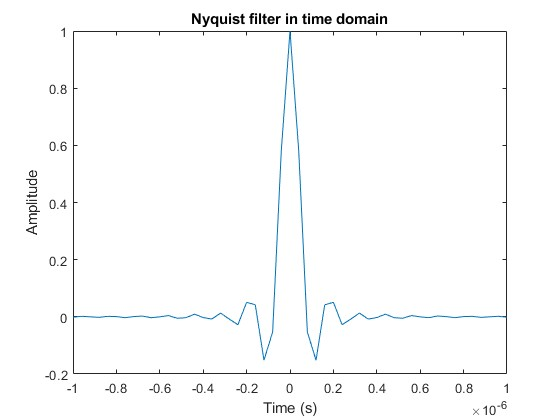
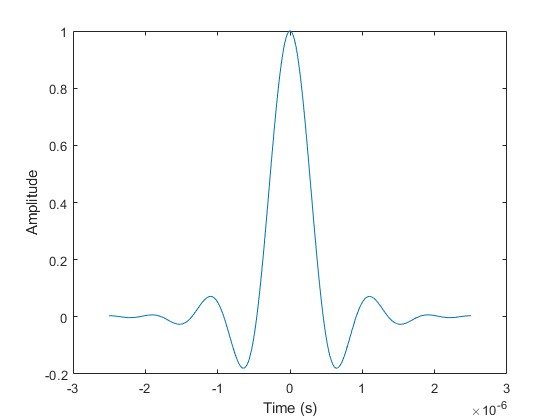
added soft decoding, hard decoding and impulse response figures

diff --git a/PART 2/plots.m b/PART 2/plots.m
@@ -67,14 +67,7 @@ BER_HD_5_iterations = [0.283936718750000
 0
 0];
 
-BER_SD_15_iterations = [0.343340000000000
-0.225310000000000
-0.109590000000000
-0.0301700000000000
-0.00838000000000000
-0.00151000000000000
-0.000370000000000000
-0.000150000000000000];
+BER_SD_15_iterations = [];
 
 BER_HD_1_iteration = [0.283291406250000
 0.214907812500000
@@ -183,32 +176,42 @@ BER_SD_18_iterations = [0.457275781250000
 0
 0];
 
-BER_SD_21_iterations = [];
+BER_SD_21_iterations = [0.458060156250000
+0.456740625000000
+0.454264843750000
+0.305492968750000
+0.0306234375000000
+0.000937500000000000
+4.68750000000000e-06
+0
+0
+0
+0];
 
-BER_pam1_new = [0.213024166666667
-0.157970500000000
-0.103757166666667
-0.0562288333333333
-0.0228336666666667
-0.00592966666666667
-0.000776833333333333
-3.58333333333333e-05
-1.66666666666667e-07
+BER_pam1_new = [0.213264500000000
+0.158431900000000
+0.103771000000000
+0.0563562000000000
+0.0228921000000000
+0.00598820000000000
+0.000784100000000000
+3.40000000000000e-05
+5.00000000000000e-07
 0
 0];
 
 figure
 hold on
-plot(0:5, BER_pam1_new(1:6))
+plot(-5:2:15, BER_pam1_new(1:11))
 % plot(0:10, BER_qam2(1:11))
 % plot(0:10, BER_qam4(1:11))
 % plot(0:10, BER_qam6(1:11))
 %plot(0:5, BER_SD_15_iterations(1:6))
-plot(0:10, BER_HD_1_iteration(1:11))
-plot(0:10, BER_HD_2_iterations(1:11))
-plot(0:10, BER_HD_5_iterations(1:11))
-plot(0:10, BER_HD_7_iterations(1:11))
-plot(0:10, BER_HD_9_iterations(1:11))
+plot(-5:2:15, BER_HD_1_iteration(1:11))
+plot(-5:2:15, BER_HD_2_iterations(1:11))
+plot(-5:2:15, BER_HD_5_iterations(1:11))
+plot(-5:2:15, BER_HD_7_iterations(1:11))
+plot(-5:2:15, BER_HD_9_iterations(1:11))
 set(gca, 'YScale', 'log')
 xlabel('Eb/N0')
 ylabel("BER")
@@ -218,18 +221,18 @@ title('Hard Decoding of pam')
 
 figure
 hold on
-plot(0:5, BER_pam1_new(1:6))
+plot(-5:2:15, BER_pam1_new(1:11))
 % plot(0:10, BER_qam2(1:11))
 % plot(0:10, BER_qam4(1:11))
 % plot(0:10, BER_qam6(1:11))
 %plot(0:5, BER_SD_15_iterations(1:6))
-plot(0:10, BER_SD_1_iteration(1:11))
-plot(0:10, BER_SD_3_iterations(1:11))
-plot(0:10, BER_SD_7_iterations(1:11))
-plot(0:10, BER_SD_11_iterations(1:11))
+plot(-5:2:15, BER_SD_1_iteration(1:11))
+plot(-5:2:15, BER_SD_3_iterations(1:11))
+plot(-5:2:15, BER_SD_7_iterations(1:11))
+plot(-5:2:15, BER_SD_11_iterations(1:11))
 %plot(0:10, BER_SD_15_iterations(1:11))
-plot(0:10, BER_SD_18_iterations(1:11))
-%plot(0:10, BER_SD_21_iterations(1:11))
+plot(-5:2:15, BER_SD_18_iterations(1:11))
+plot(-5:2:15, BER_SD_21_iterations(1:11))
 set(gca, 'YScale', 'log')
 xlabel('Eb/N0')
 ylabel("BER")

diff --git a/PART 3/PART 3.1/Nyquist_filter.m b/PART 3/PART 3.1/Nyquist_filter.m
@@ -13,7 +13,7 @@ function [output] = Nyquist_filter(fs, rate, sample_length, beta, taps)
     % inbetween
 	
 	lower = -(taps-1)/2;
-    f_axis = (lower:-lower)*(fs*rate)/(taps)/2;
+    f_axis = (lower:-lower)*(fs*rate)/(taps);
     f_filter_response = zeros(1, length(f_axis));
     for i = 1:length(f_filter_response)
         if abs(f_axis(i)) <= (1-beta)/(2*T)
@@ -42,7 +42,7 @@ function [output] = Nyquist_filter(fs, rate, sample_length, beta, taps)
      filter_response = ifft(sqrt(ifftshift(f_filter_response)));
      filter_response = fftshift(filter_response/sqrt(max(f_r))); % normalize
      figure
-     plot(t_axis, (filter_response))
+     plot(t_axis, (filter_response/max(filter_response)))
      xlabel('Time (s)')
      ylabel('Amplitude')
      title('Nyquist filter in time domain')

diff --git a/PART 2/main.m b/PART 2/main.m
@@ -15,11 +15,11 @@ Eb_N0_ratio = 10^(Eb_N0_ratio_dB/10); % noise power Eb/N0
 Eb_N0_ratios = 10.^(Eb_N0_ratios_dB/10);
 
 
-bitstream_length = 1280000; %length of bitstream
+bitstream_length = 12800000; %length of bitstream
 
 % modulations possible (for part 2):
 %   pam 1
-
+  
 modulation = 'pam'; % pam or qam
 number_of_bits = 1; % number of bits per symbol
 
@@ -30,7 +30,7 @@ filter_taps = 101;
 
 % part 2
 number_of_iterations_HD = 1;
-number_of_iterations_SD = 21;
+number_of_iterations_SD = 15;
 size_LDPC = 128;
 
 H = generate_ldpc(size_LDPC, 2*size_LDPC, 0, 1, 2);

diff --git a/PART 1/main.m b/PART 1/main.m
@@ -14,7 +14,7 @@ Eb_N0_ratio = 10^(Eb_N0_ratio_dB/10); % noise power Eb/N0
 
 Eb_N0_ratios = 10.^(Eb_N0_ratios_dB/10);
 
-bitstream_length = 1000000*6; %length of bitstream
+bitstream_length = 10000000; %length of bitstream
 
 % modulations possible:
 %   pam 1

diff --git a/PART 3/PART 3.1/main3.m b/PART 3/PART 3.1/main3.m
@@ -5,7 +5,7 @@ clear
 %% input parameters
 
 
-Eb_N0_ratios_dB = 0:1:16; % 0:1:0;
+Eb_N0_ratios_dB = 0:1:0; % 0:1:0;
 
 
 Eb_N0_ratio_dB = 0;
